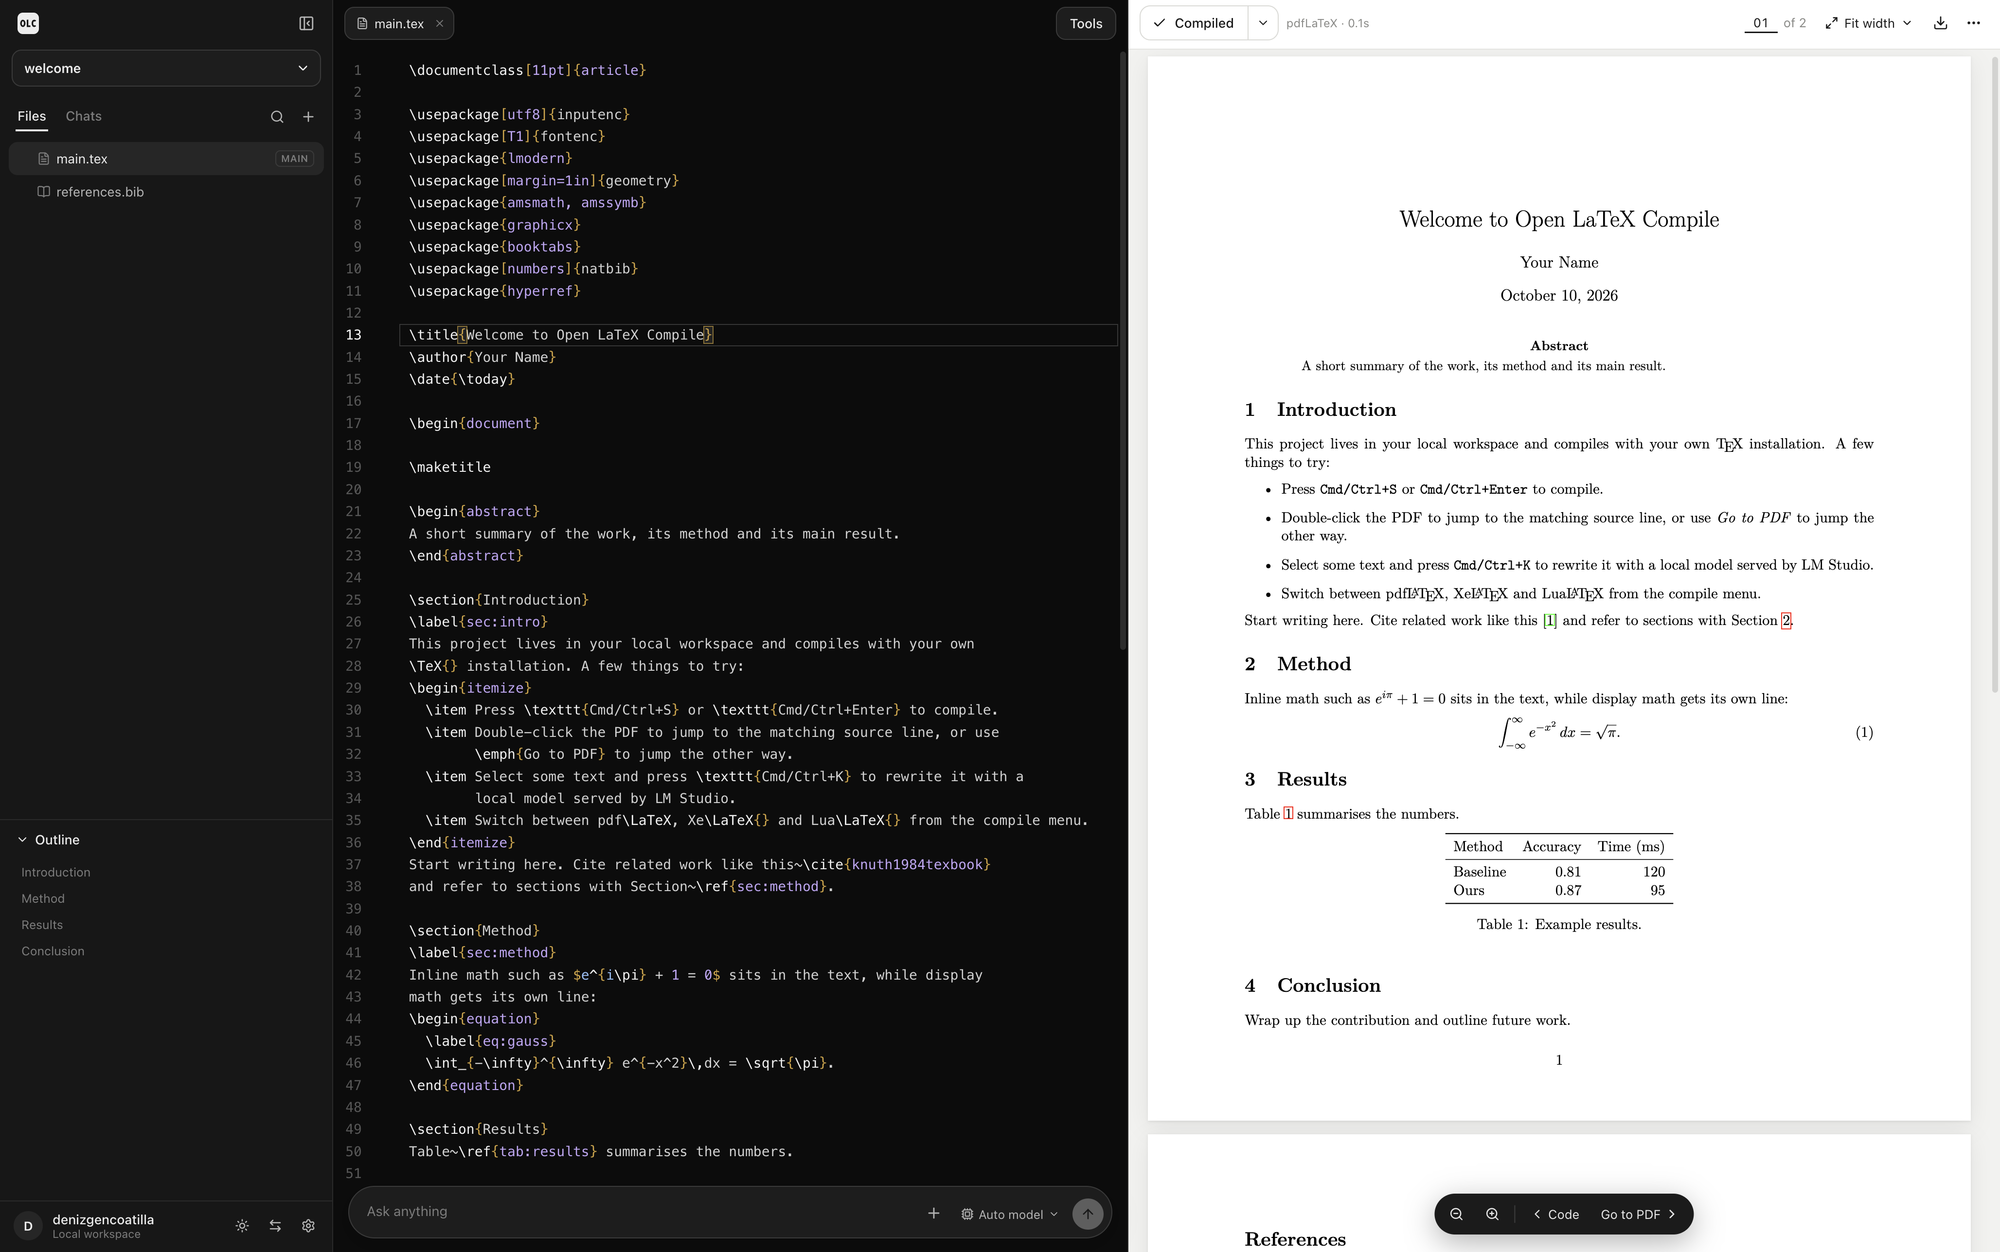
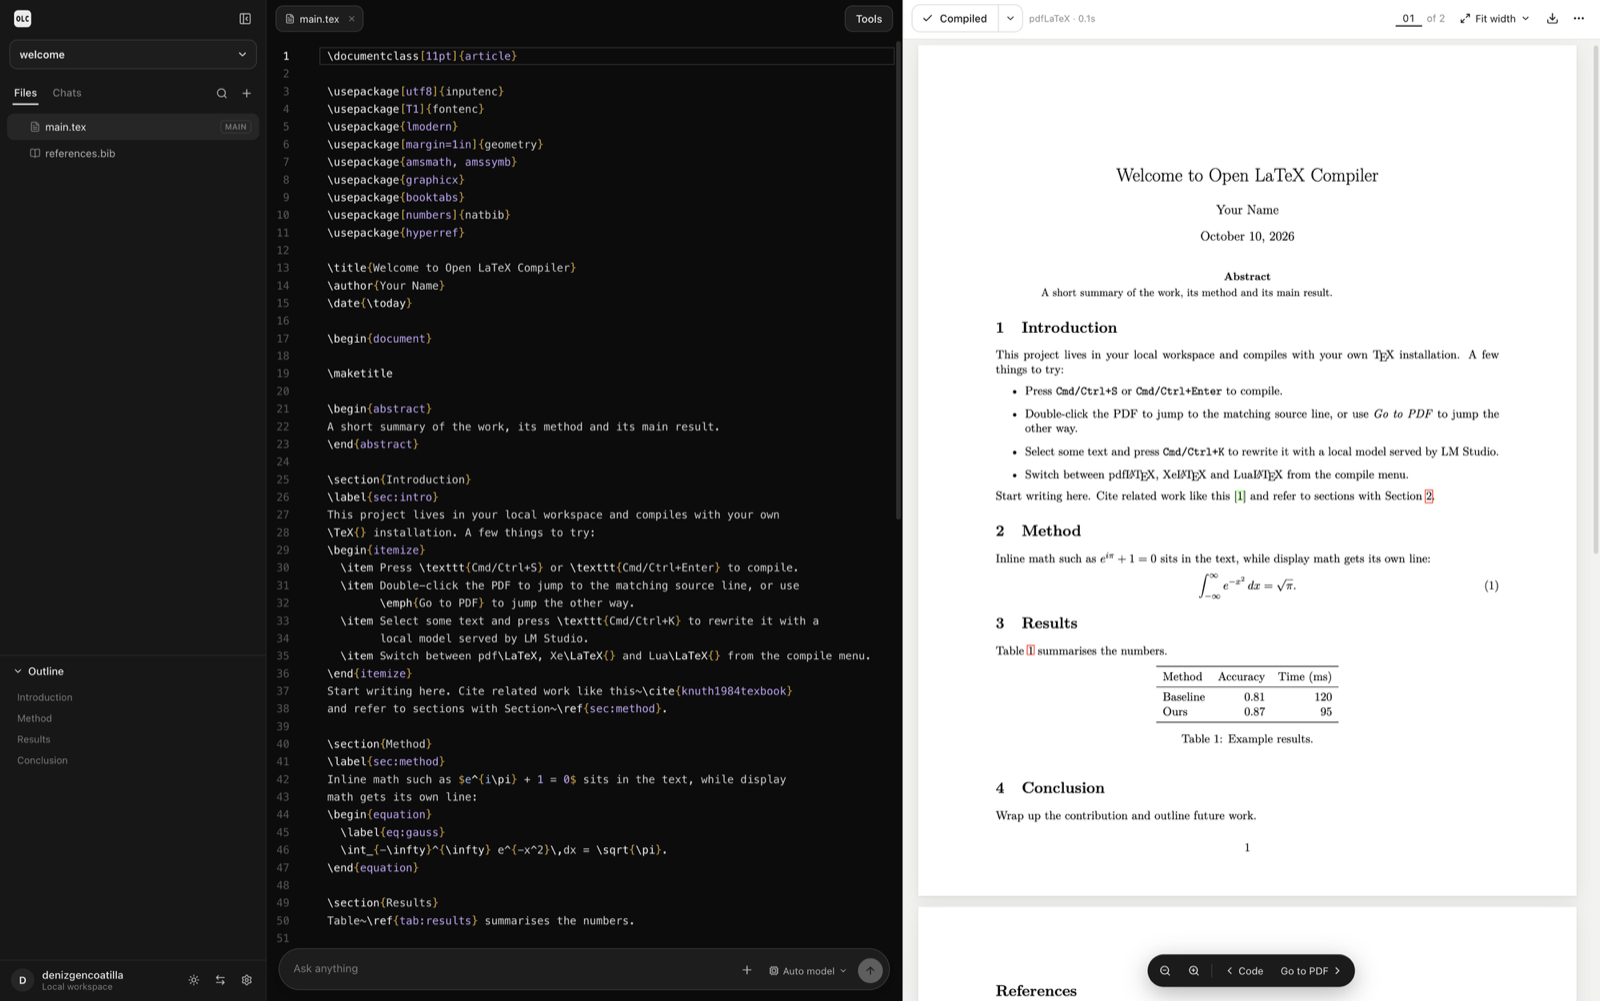
Update the README screenshot and show it at 80% width
The new screenshot has the corrected welcome title. It is resized to
1600px wide and centred at 80% of the README width.

Changed region(s): [[0.6875, 0.1548, 0.875, 0.1858], [0.3438, 0.2478, 0.375, 0.2787], [0.2188, 0.2478, 0.25, 0.2787]]

diff --git a/README.md b/README.md
@@ -1,6 +1,8 @@
 # open-latex-compiler
 
-![Open LaTeX Compiler with the file panel, the LaTeX editor and the compiled PDF side by side](docs/screenshot.png)
+<p align="center">
+  <img src="docs/screenshot.png" width="80%" alt="Open LaTeX Compiler with the file panel, the LaTeX editor and the compiled PDF side by side">
+</p>
 
 A local LaTeX editor in the spirit of Overleaf and OpenAI Prism. Everything runs on your machine: files stay on your disk, documents compile with your own TeX installation, and the writing assistant talks to a local model served by LM Studio, Ollama or any other OpenAI-compatible server.
 
